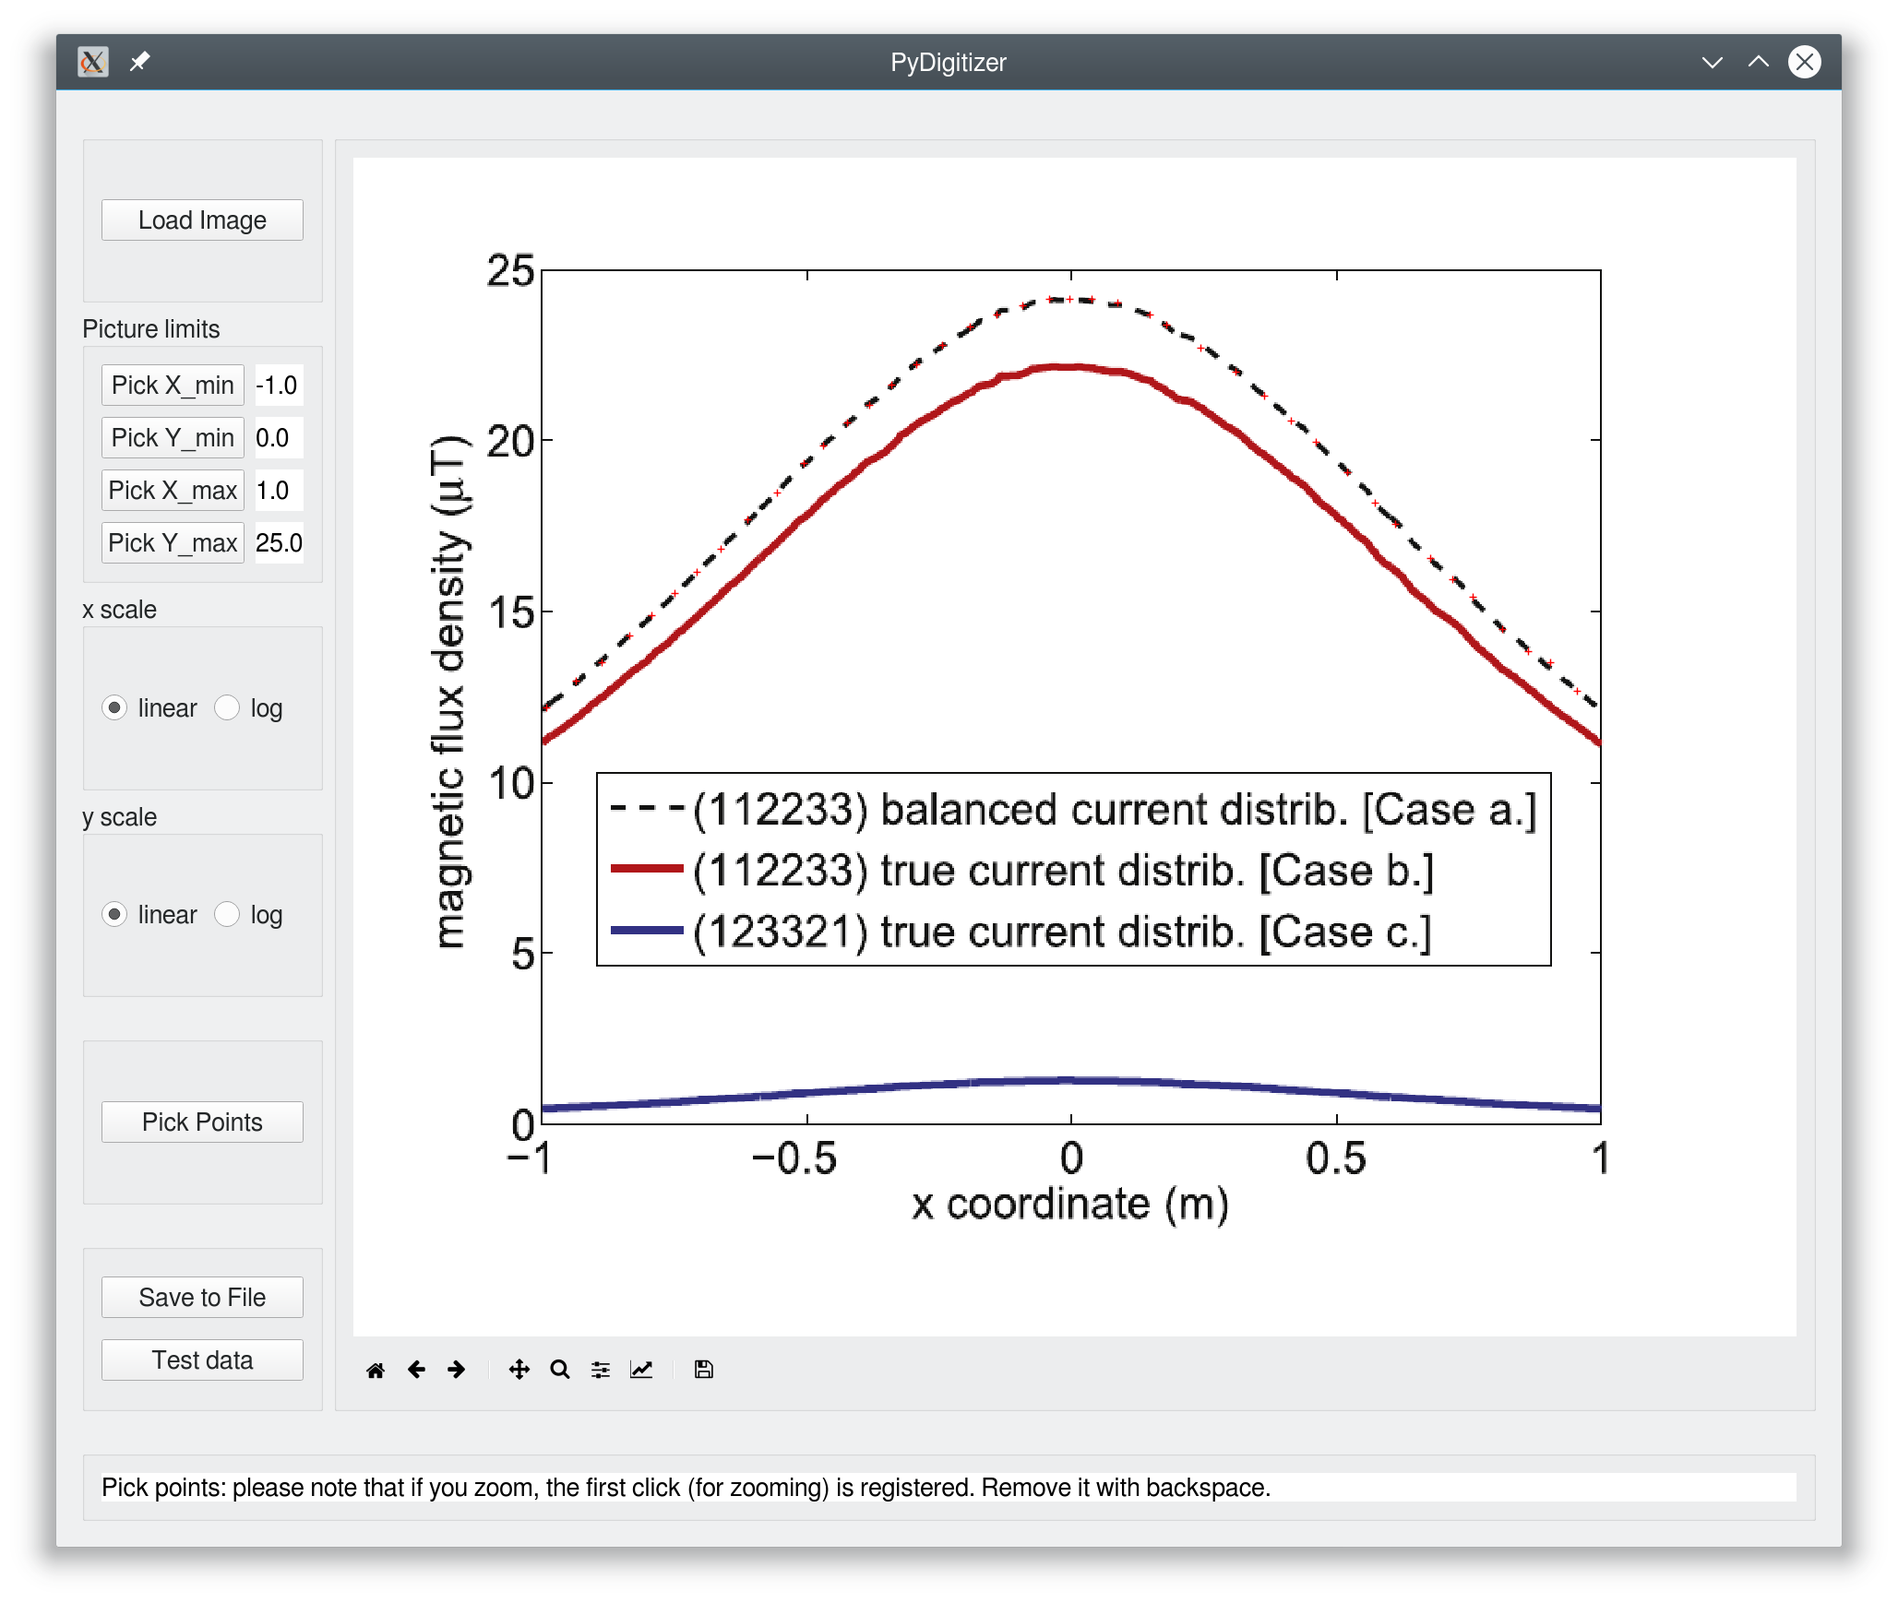
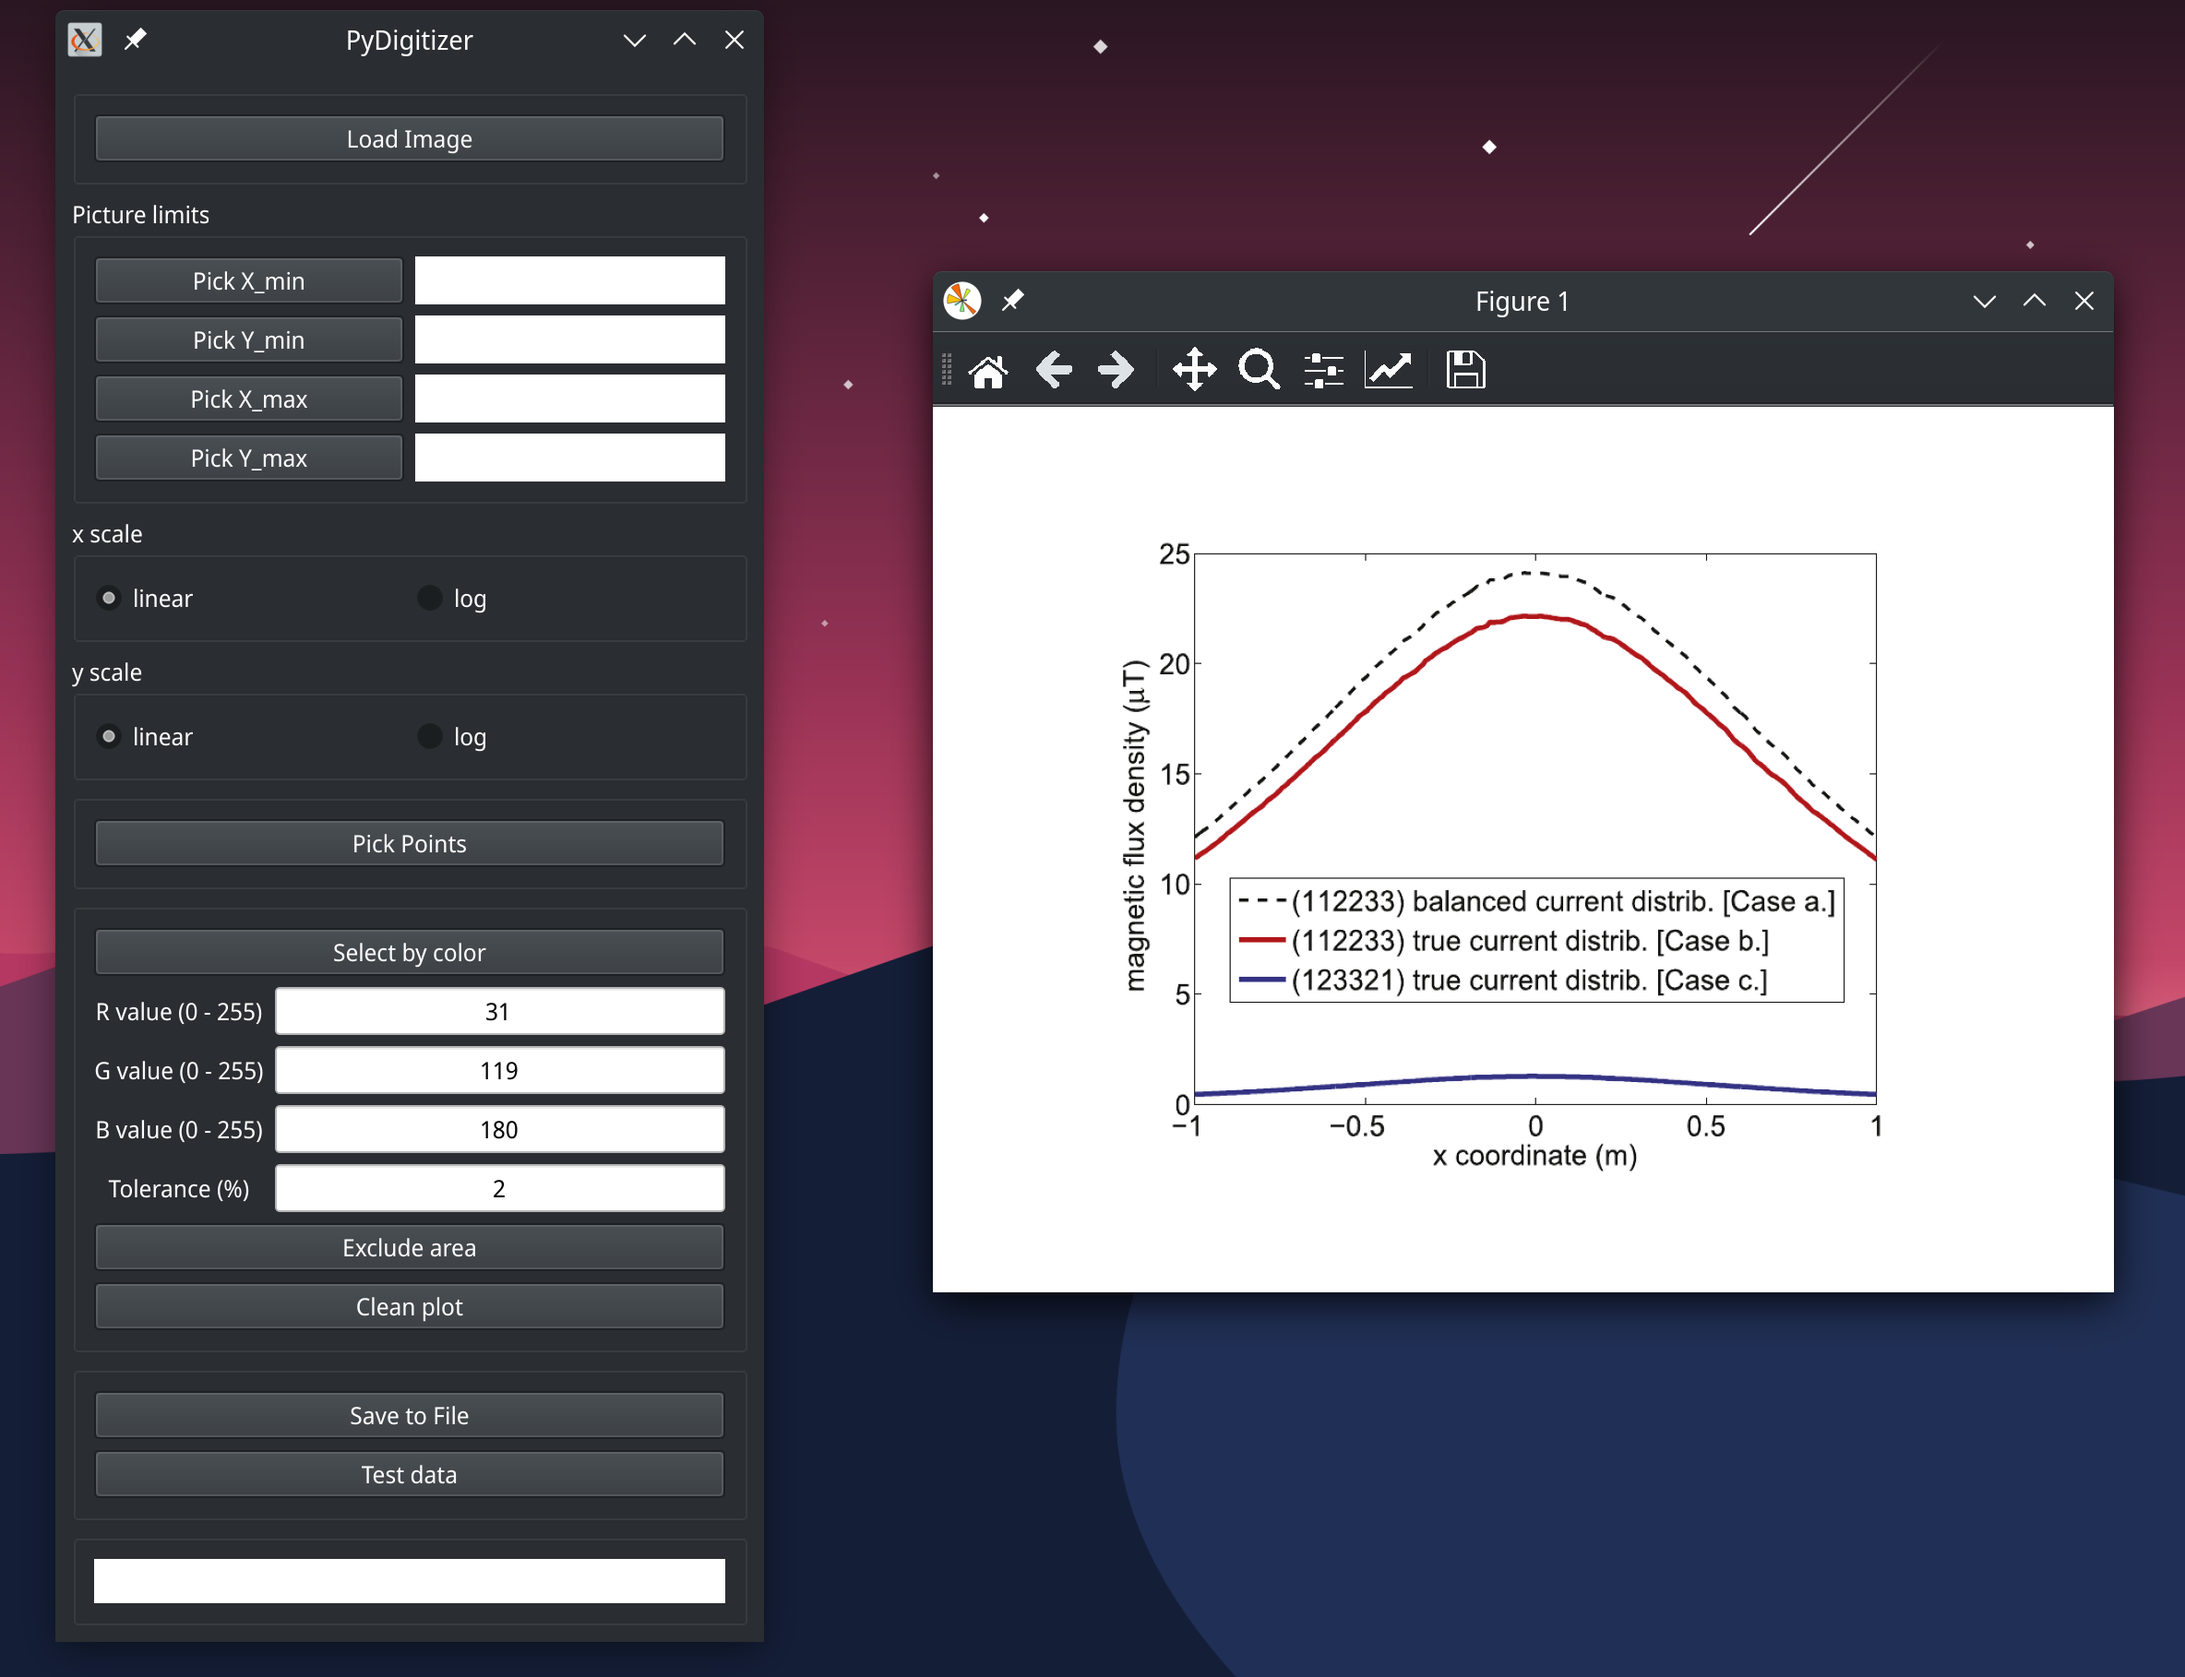
Update README

diff --git a/README.md b/README.md
@@ -9,7 +9,7 @@ Get sample from a figure. Useful to extract data from paper for comparison.
 
 * Load it into PyDigitizer
 * provide some information (X_min, Y_min, X_max, Y_max, axis type, etc)
-* get data by clicking on the image
+* get data by clicking on the image or by defining a target color
 * save it
 
 <p align="center">
